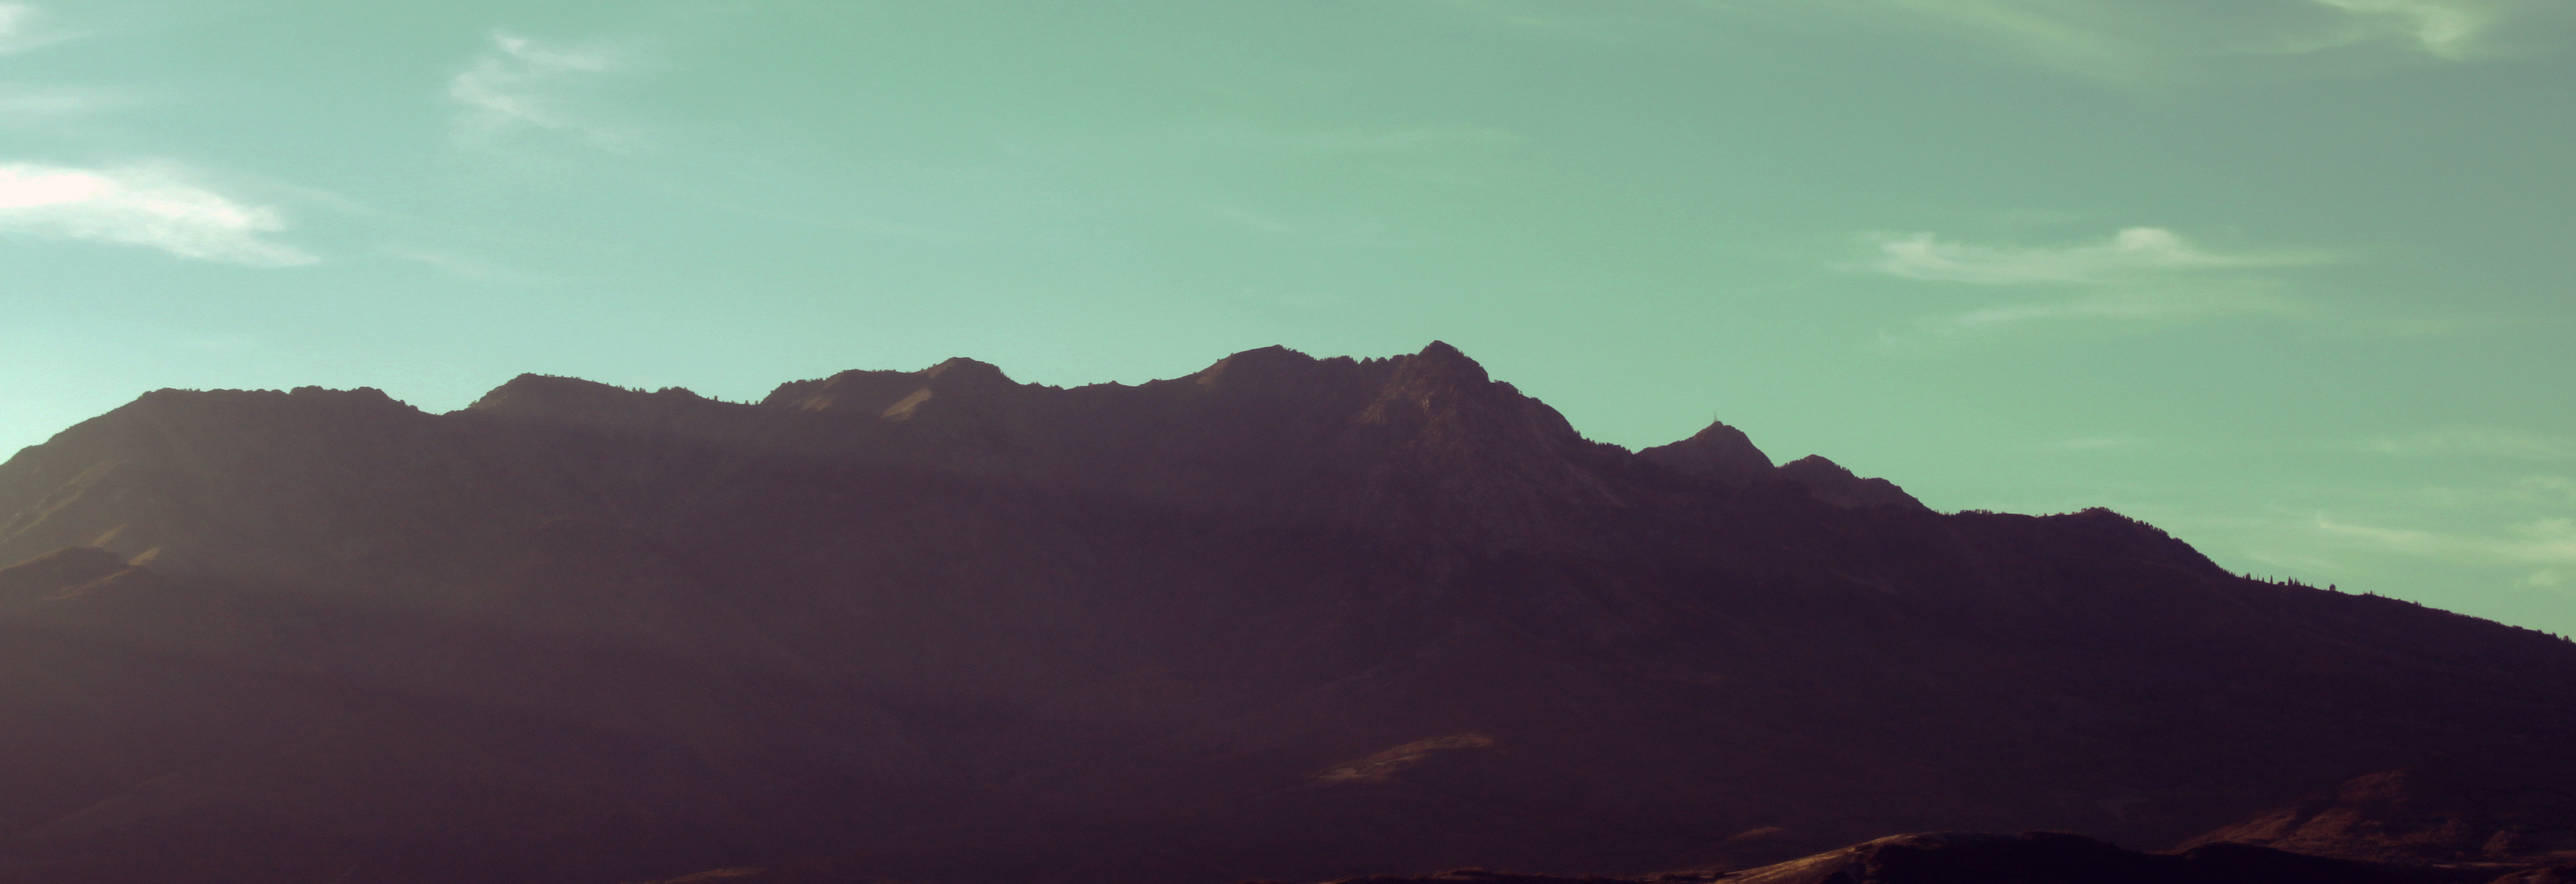
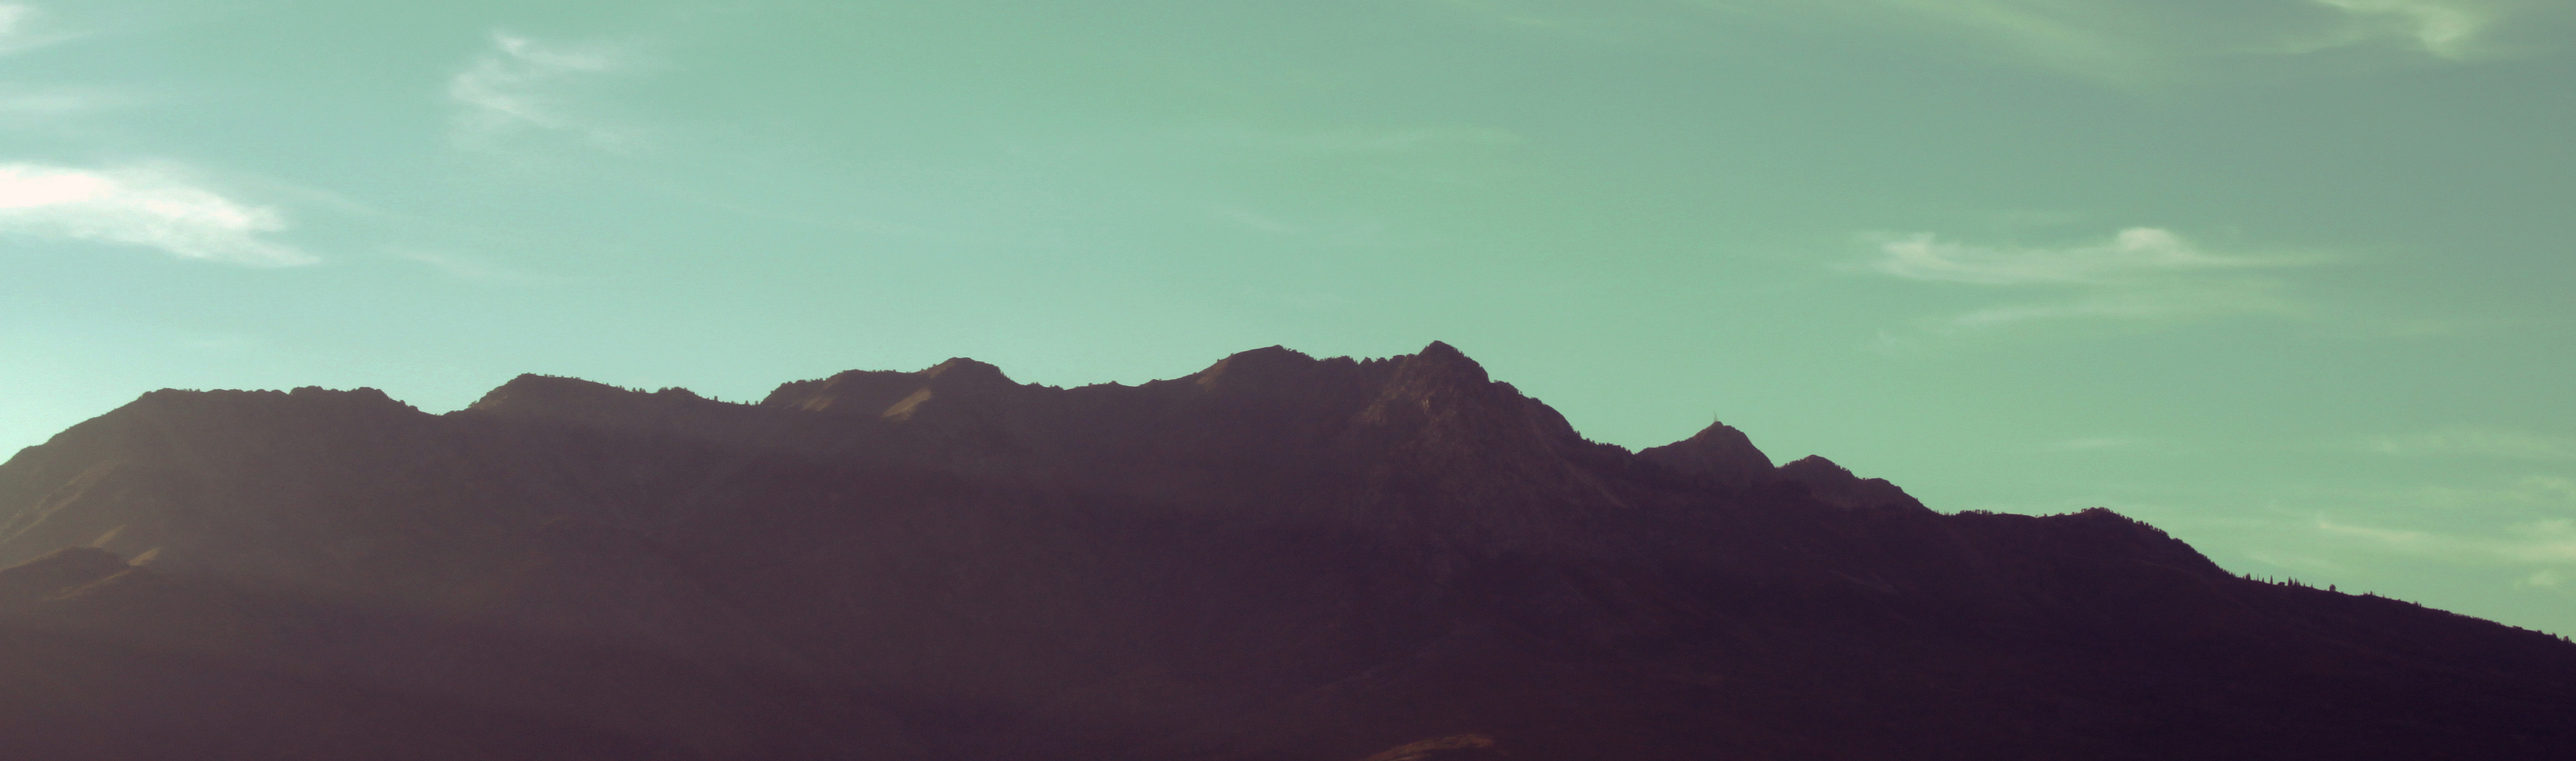
Update header image position

diff --git a/app/assets/stylesheets/home.css.scss b/app/assets/stylesheets/home.css.scss
@@ -37,11 +37,13 @@ a:hover {
   display: table;
   width: 100%;
   position: relative;
-  background: url(../assets/bg.jpg) no-repeat center center fixed;
+  background: url(../assets/bg.jpg) no-repeat center center;
   -webkit-background-size: cover;
   -moz-background-size: cover;
   -o-background-size: cover;
   background-size: cover;
+ /* min-width: 100%;
+  min-height: 100%;*/
   height: 550px;
   background-color: #1c1d1e;
 }
